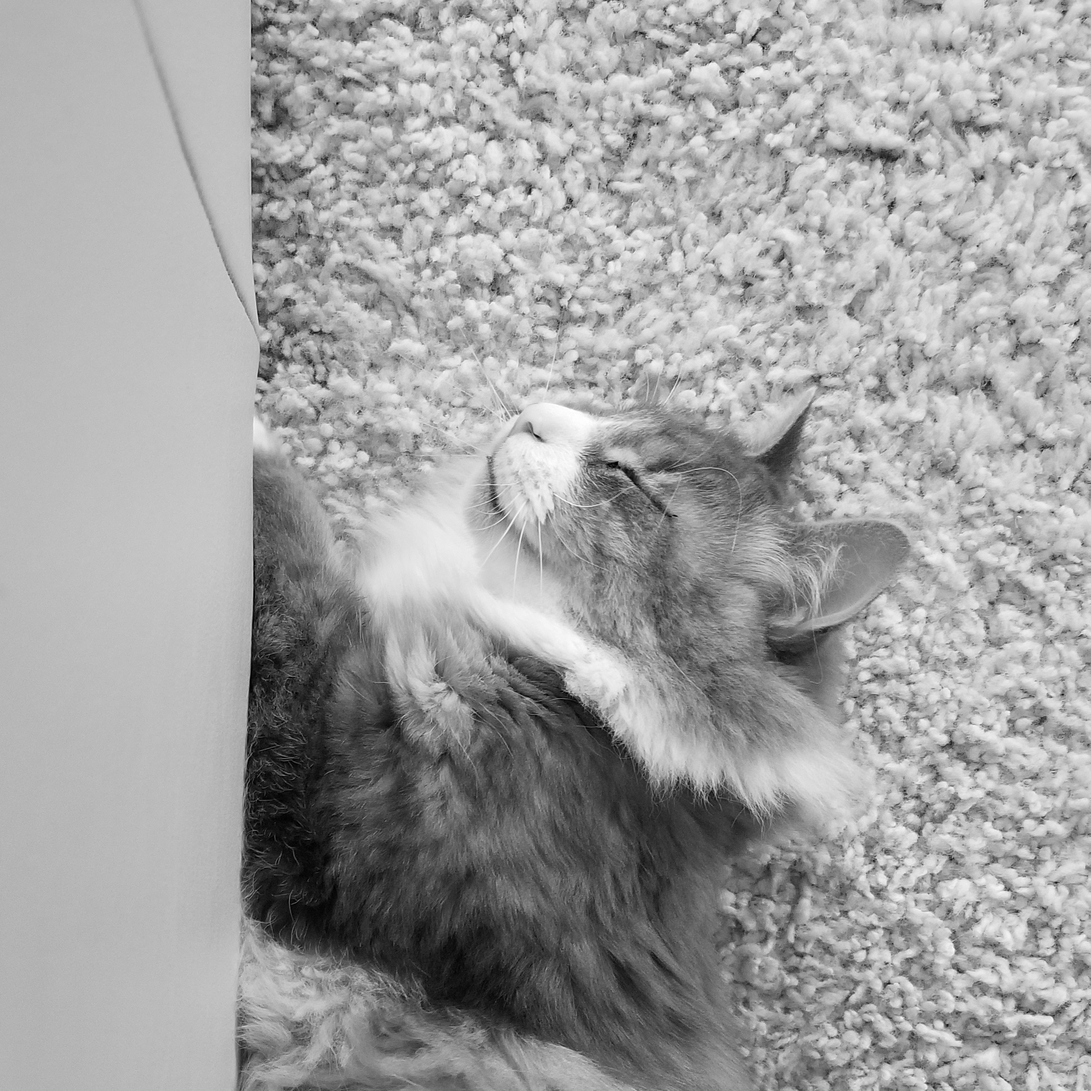
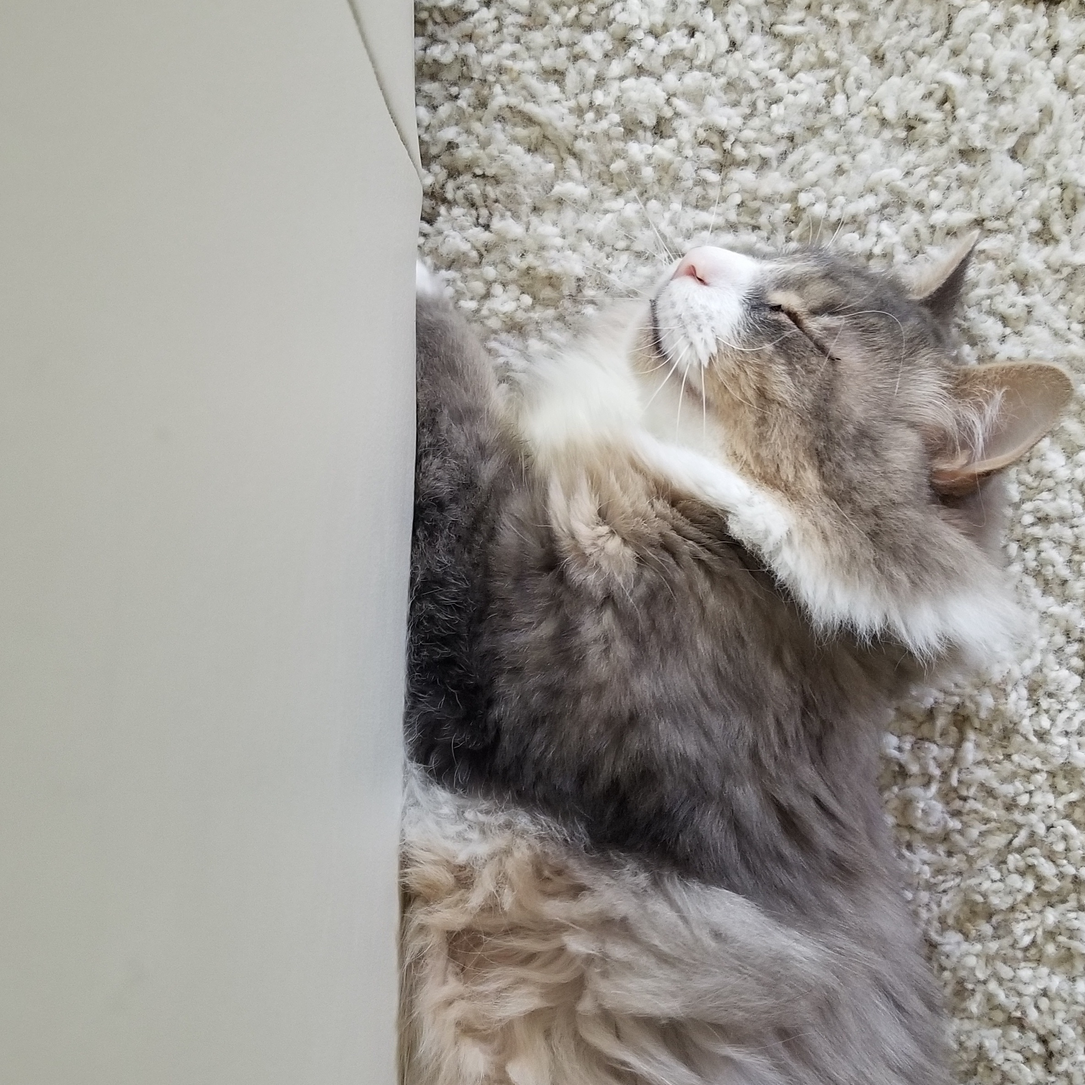
fixed css bugs and changed img
removed buggy order css for col and replaced portfolio img with color version

diff --git a/portfolio.html b/portfolio.html
@@ -57,7 +57,7 @@
     <!-- container -->
     <div class="container-sm">
         <div class="row" data-masonry='{"percentPosition": true }'>
-            <div class="col-md-6 col-lg-4 order-first">
+            <div class="col-md-6 col-lg-4">
                 <div class="card">
                     <div class="card-body">
                         <h1 class="card-title text-light bg-dark dark-header shadow">portfolio</h1>
@@ -206,7 +206,7 @@
                     </div>
                 </div>
             </div>
-            <div class="col-md-6 col-lg-4 order-last">
+            <div class="col-md-6 col-lg-4">
                 <!-- card - dino hunt game -->
                 <div class="card">
                     <div class="card-body">
